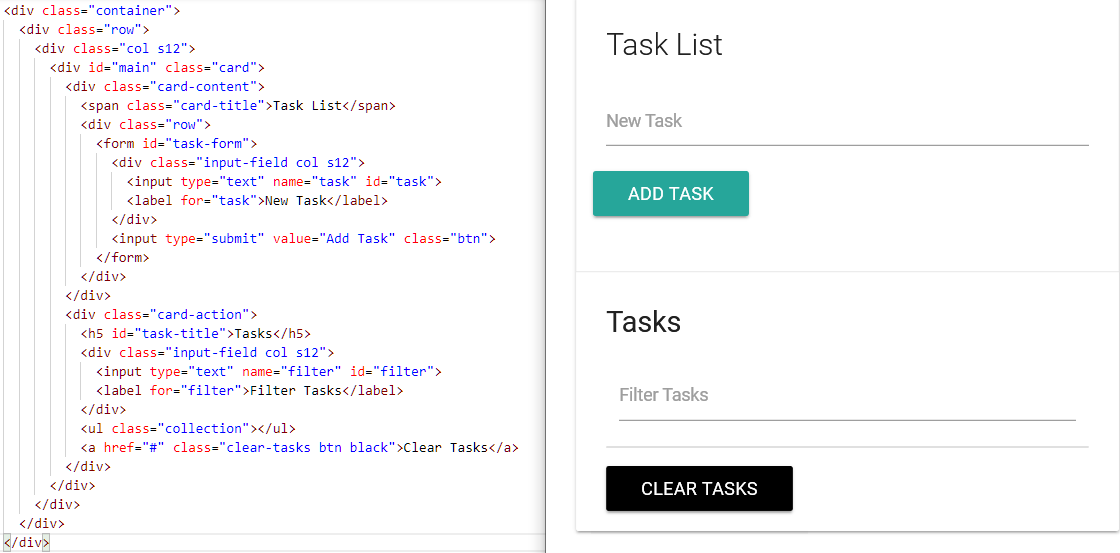
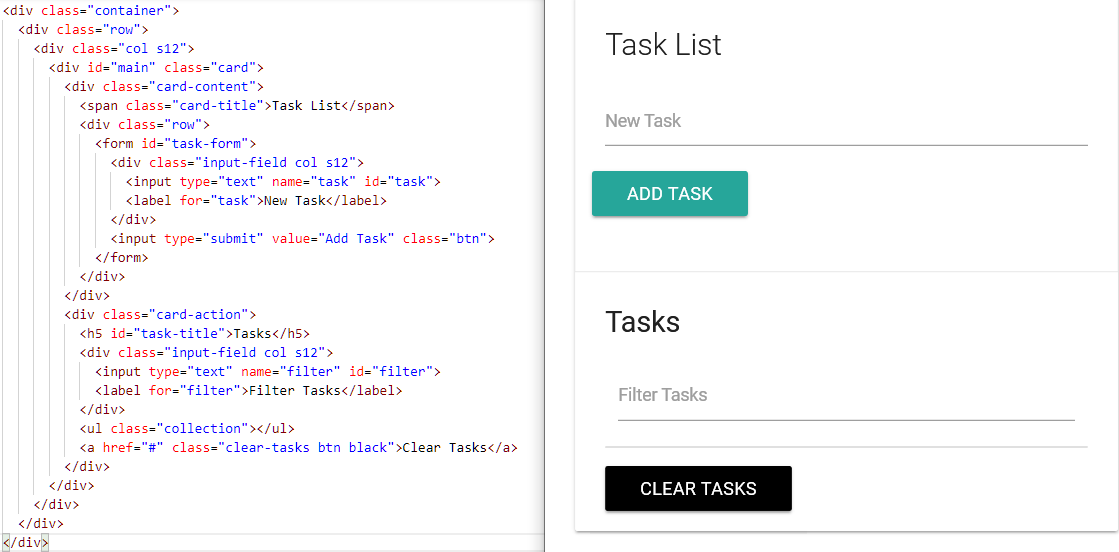
modify readme

diff --git a/DOM Project/README.md b/DOM Project/README.md
@@ -28,4 +28,4 @@
 - Copy the link and paste under materialize.css in your project.  
 
 *Here is the code and layout of the task list.  
-![Task list image](./images/domPorjectImg.png)
+![Task list image](./images/domProjectImg.png)
